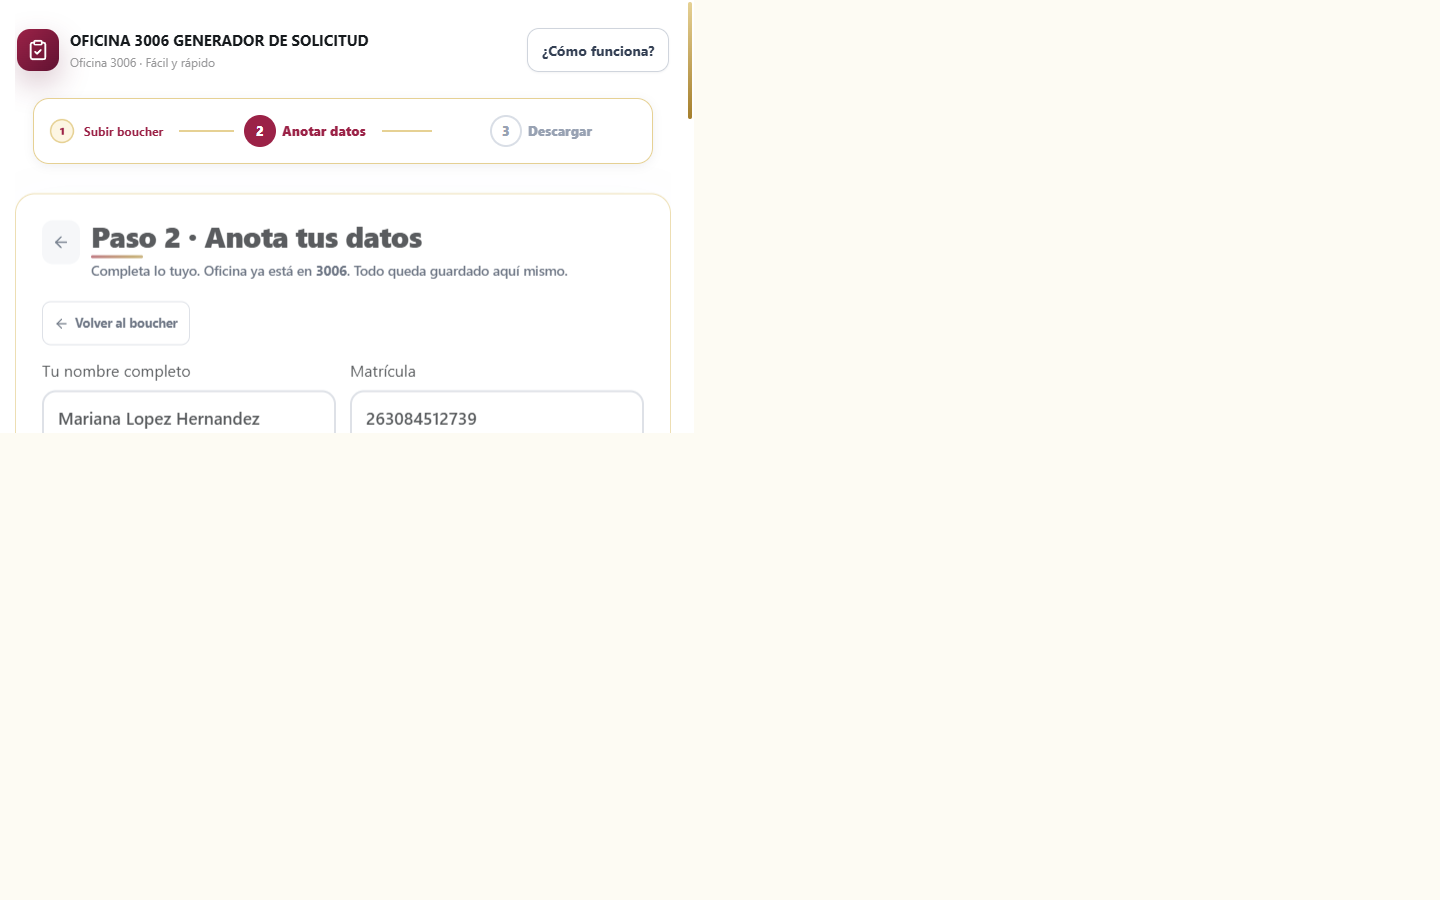
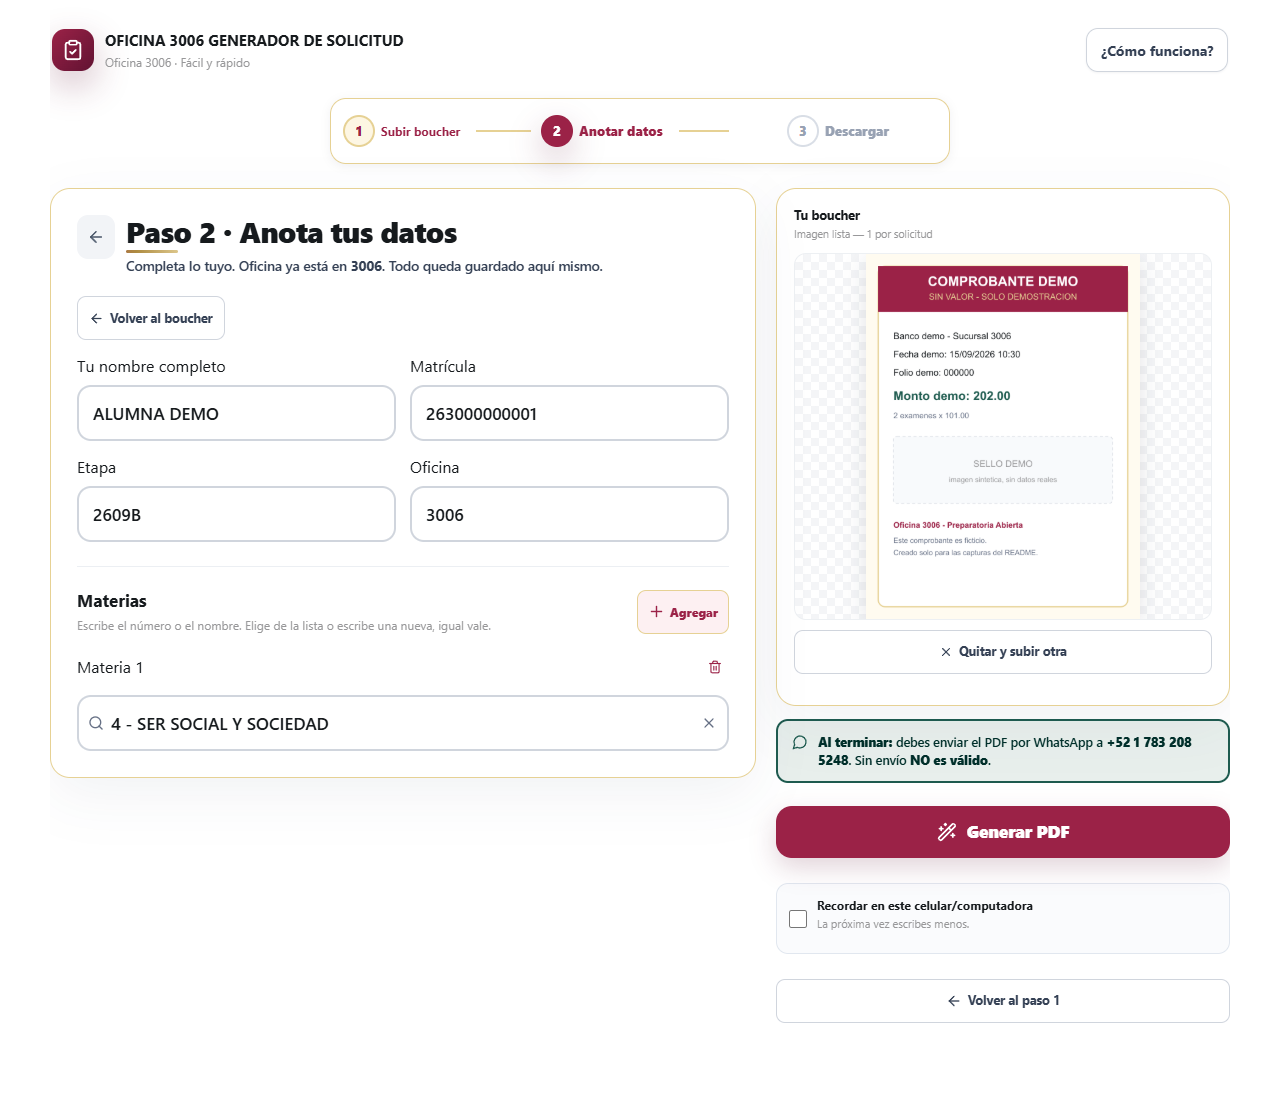
docs: retomar capturas con reconocimiento visual y datos sinteticos
- inicio-escritorio: estaba en blanco (captura antes del render); retomada 1280x800
- inicio-movil: estaba lavada/recortada; retomada 390x844 sin banner
- captura-datos: estaba a medias y con datos de apariencia real; retomada completa con ALUMNA DEMO
- nueva descarga-escritorio (paso 3) + docs/demo-voucher.png sintetico
- README: seccion Capturas con flujo 1-2-3 y nota de datos ficticios; nueva seccion Uso

diff --git a/README.md b/README.md
@@ -19,21 +19,47 @@ backend, no sube fotografías y no envía datos automáticamente a terceros.
 
 ## Capturas de pantalla
 
-Las siguientes imágenes muestran el flujo principal de la aplicación. El
-comprobante visible en la captura del formulario es únicamente un recurso
-gráfico de demostración; no contiene datos reales.
+Flujo completo en tres pasos, capturado en la app real (escritorio 1280×800
+y móvil 390×844):
 
-### Inicio en escritorio
+### 1. Sube tu comprobante (escritorio)
 
-![Pantalla inicial del convertidor en escritorio](docs/screenshots/inicio-escritorio.png)
+![Paso 1 en escritorio: subir el comprobante de pago](docs/screenshots/inicio-escritorio.png)
 
-### Inicio en móvil
+### 2. Anota tus datos (escritorio)
 
-![Pantalla inicial del convertidor en un teléfono](docs/screenshots/inicio-movil.png)
+![Paso 2 en escritorio: formulario con datos y comprobante cargado](docs/screenshots/captura-datos-escritorio.png)
 
-### Captura de datos
+### 3. Descarga y envía (escritorio)
 
-![Formulario de datos y materias con el comprobante cargado](docs/screenshots/captura-datos-escritorio.png)
+![Paso 3 en escritorio: solicitud creada, botones de WhatsApp y descarga](docs/screenshots/descarga-escritorio.png)
+
+### 1. Sube tu comprobante (móvil)
+
+![Paso 1 en un teléfono: subir el comprobante de pago](docs/screenshots/inicio-movil.png)
+
+> **Datos ficticios:** todas las capturas usan datos sintéticos de
+> demostración (`ALUMNA DEMO`, matrícula `263000000001`, etapa `2609B`) y el
+> comprobante visible es `docs/demo-voucher.png`, una imagen generada solo
+> para la documentación, marcada como **COMPROBANTE DEMO — SIN VALOR**. No
+> contiene datos de ninguna persona real.
+
+## Uso (3 pasos)
+
+1. **Sube tu comprobante:** foto (JPG, PNG, WEBP) o PDF de tu pago, máximo
+   12 MB. Sin comprobante no se puede continuar. Si tu foto es HEIC de
+   iPhone, cambia a «Más compatible» en Ajustes > Cámara y vuelve a tomarla.
+2. **Anota tus datos:** nombre completo, matrícula (8 a 16 dígitos), etapa
+   (ej. `2609B`) y materias (escribe el número o el nombre y elige de la
+   lista). La oficina ya viene con `3006`.
+3. **Descarga y envía:** la app genera el PDF y lo descarga. **Obligatorio:**
+   envíalo por WhatsApp a Oficina 3006 (+52 1 783 208 5248); sin ese envío
+   la solicitud **no es válida**.
+
+Costo de referencia: **$101 por examen** (ej. 2 materias = $202). Pagos en
+banco o banca electrónica solo de **lunes a viernes, 9:00 AM a 5:00 PM**;
+fuera de ese horario el pago no se hace válido. Verifica siempre los
+requisitos vigentes con la oficina antes de pagar.
 
 ## Privacidad
 
